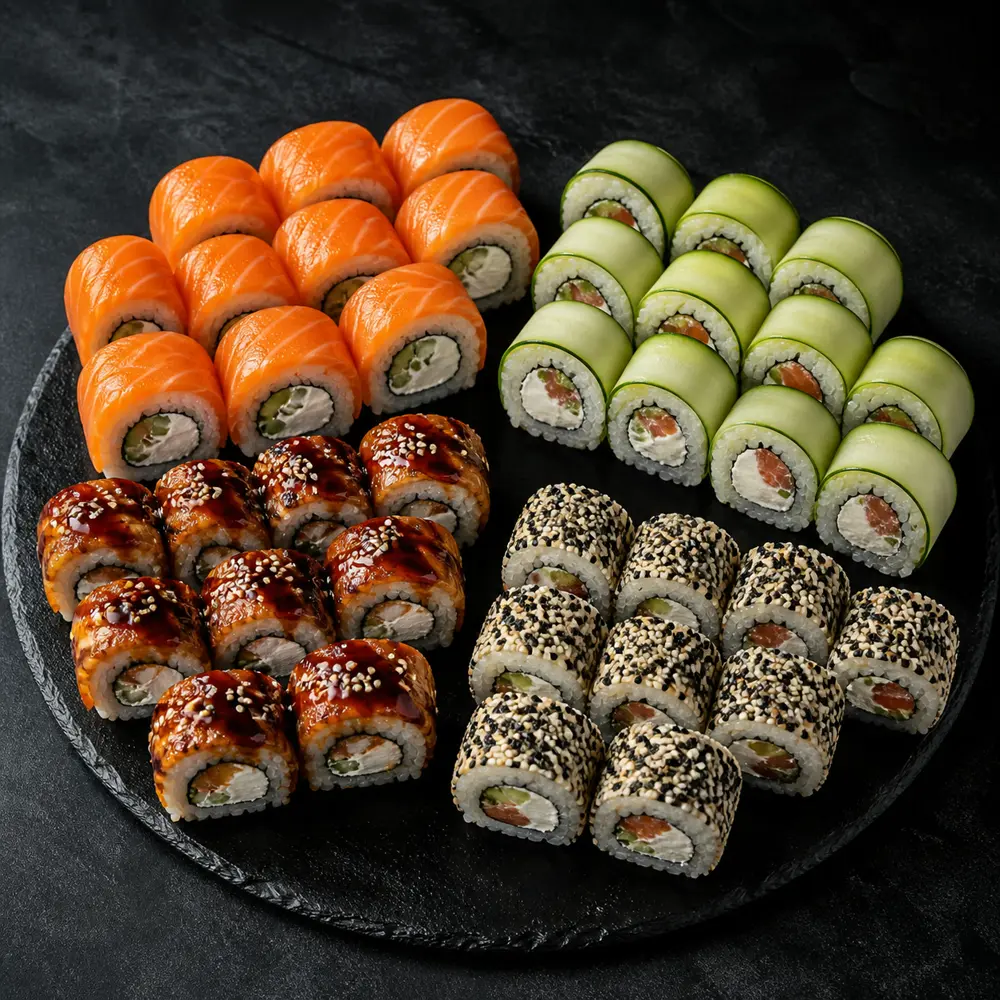
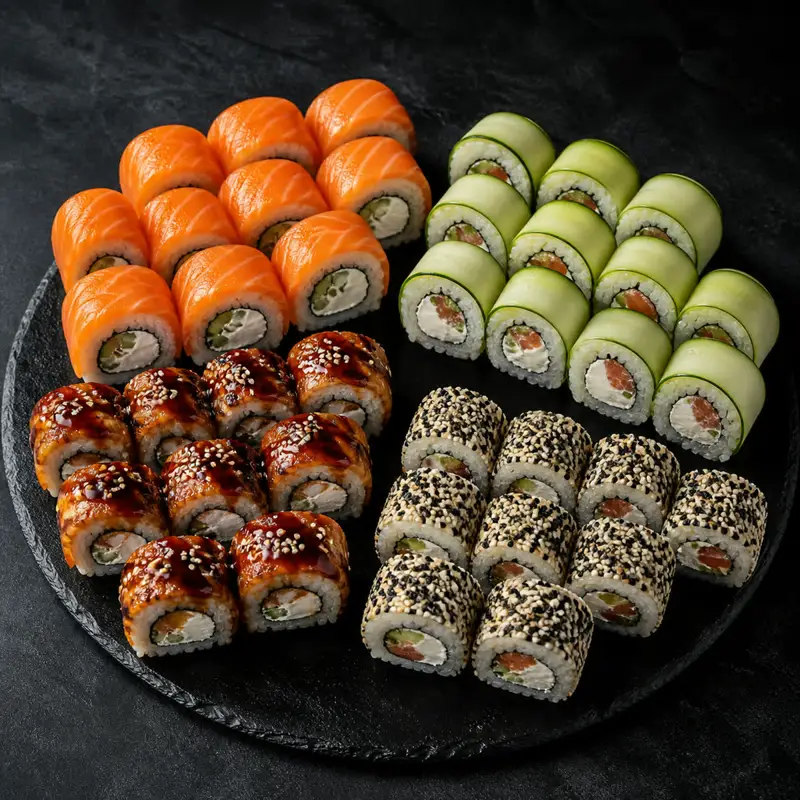
SEO: останній заголовок перед H1 (h3 «Склад» у попапі) → p; hero philadelphia < 100 КБ

diff --git a/menu.html b/menu.html
@@ -1968,7 +1968,7 @@
         <p id="productPopupTitle"></p>
       </div>
       <p class="product-popup__desc" id="productPopupDesc"></p>
-      <h3 class="product-popup__tags-label">Склад</h3>
+      <p class="product-popup__tags-label">Склад</p>
       <div class="product-popup__tags" id="productPopupTags"></div>
       <div class="product-popup__nutrition" id="productPopupNutrition"></div>
       <p class="product-popup__note" id="productPopupNote"></p>

diff --git a/404.html b/404.html
@@ -357,7 +357,7 @@
         <p id="productPopupTitle"></p>
       </div>
       <p class="product-popup__desc" id="productPopupDesc"></p>
-      <h3 class="product-popup__tags-label">Склад</h3>
+      <p class="product-popup__tags-label">Склад</p>
       <div class="product-popup__tags" id="productPopupTags"></div>
       <div class="product-popup__nutrition" id="productPopupNutrition"></div>
       <p class="product-popup__note" id="productPopupNote"></p>

diff --git a/about.html b/about.html
@@ -376,7 +376,7 @@
         <p id="productPopupTitle"></p>
       </div>
       <p class="product-popup__desc" id="productPopupDesc"></p>
-      <h3 class="product-popup__tags-label">Склад</h3>
+      <p class="product-popup__tags-label">Склад</p>
       <div class="product-popup__tags" id="productPopupTags"></div>
       <div class="product-popup__nutrition" id="productPopupNutrition"></div>
       <p class="product-popup__note" id="productPopupNote"></p>

diff --git a/account.html b/account.html
@@ -375,7 +375,7 @@
         <p id="productPopupTitle"></p>
       </div>
       <p class="product-popup__desc" id="productPopupDesc"></p>
-      <h3 class="product-popup__tags-label">Склад</h3>
+      <p class="product-popup__tags-label">Склад</p>
       <div class="product-popup__tags" id="productPopupTags"></div>
       <div class="product-popup__nutrition" id="productPopupNutrition"></div>
       <p class="product-popup__note" id="productPopupNote"></p>

diff --git a/article.html b/article.html
@@ -405,7 +405,7 @@
         <p id="productPopupTitle"></p>
       </div>
       <p class="product-popup__desc" id="productPopupDesc"></p>
-      <h3 class="product-popup__tags-label">Склад</h3>
+      <p class="product-popup__tags-label">Склад</p>
       <div class="product-popup__tags" id="productPopupTags"></div>
       <div class="product-popup__nutrition" id="productPopupNutrition"></div>
       <p class="product-popup__note" id="productPopupNote"></p>

diff --git a/blog.html b/blog.html
@@ -375,7 +375,7 @@
         <p id="productPopupTitle"></p>
       </div>
       <p class="product-popup__desc" id="productPopupDesc"></p>
-      <h3 class="product-popup__tags-label">Склад</h3>
+      <p class="product-popup__tags-label">Склад</p>
       <div class="product-popup__tags" id="productPopupTags"></div>
       <div class="product-popup__nutrition" id="productPopupNutrition"></div>
       <p class="product-popup__note" id="productPopupNote"></p>

diff --git a/careers.html b/careers.html
@@ -414,7 +414,7 @@
         <p id="productPopupTitle"></p>
       </div>
       <p class="product-popup__desc" id="productPopupDesc"></p>
-      <h3 class="product-popup__tags-label">Склад</h3>
+      <p class="product-popup__tags-label">Склад</p>
       <div class="product-popup__tags" id="productPopupTags"></div>
       <div class="product-popup__nutrition" id="productPopupNutrition"></div>
       <p class="product-popup__note" id="productPopupNote"></p>

diff --git a/checkout.html b/checkout.html
@@ -358,7 +358,7 @@
         <p id="productPopupTitle"></p>
       </div>
       <p class="product-popup__desc" id="productPopupDesc"></p>
-      <h3 class="product-popup__tags-label">Склад</h3>
+      <p class="product-popup__tags-label">Склад</p>
       <div class="product-popup__tags" id="productPopupTags"></div>
       <div class="product-popup__nutrition" id="productPopupNutrition"></div>
       <p class="product-popup__note" id="productPopupNote"></p>

diff --git a/contacts.html b/contacts.html
@@ -412,7 +412,7 @@
         <p id="productPopupTitle"></p>
       </div>
       <p class="product-popup__desc" id="productPopupDesc"></p>
-      <h3 class="product-popup__tags-label">Склад</h3>
+      <p class="product-popup__tags-label">Склад</p>
       <div class="product-popup__tags" id="productPopupTags"></div>
       <div class="product-popup__nutrition" id="productPopupNutrition"></div>
       <p class="product-popup__note" id="productPopupNote"></p>

diff --git a/delivery.html b/delivery.html
@@ -447,7 +447,7 @@
         <p id="productPopupTitle"></p>
       </div>
       <p class="product-popup__desc" id="productPopupDesc"></p>
-      <h3 class="product-popup__tags-label">Склад</h3>
+      <p class="product-popup__tags-label">Склад</p>
       <div class="product-popup__tags" id="productPopupTags"></div>
       <div class="product-popup__nutrition" id="productPopupNutrition"></div>
       <p class="product-popup__note" id="productPopupNote"></p>

diff --git a/deserty.html b/deserty.html
@@ -507,7 +507,7 @@
         <p id="productPopupTitle"></p>
       </div>
       <p class="product-popup__desc" id="productPopupDesc"></p>
-      <h3 class="product-popup__tags-label">Склад</h3>
+      <p class="product-popup__tags-label">Склад</p>
       <div class="product-popup__tags" id="productPopupTags"></div>
       <div class="product-popup__nutrition" id="productPopupNutrition"></div>
       <p class="product-popup__note" id="productPopupNote"></p>

diff --git a/index.html b/index.html
@@ -605,7 +605,7 @@
         <p id="productPopupTitle"></p>
       </div>
       <p class="product-popup__desc" id="productPopupDesc"></p>
-      <h3 class="product-popup__tags-label">Склад</h3>
+      <p class="product-popup__tags-label">Склад</p>
       <div class="product-popup__tags" id="productPopupTags"></div>
       <div class="product-popup__nutrition" id="productPopupNutrition"></div>
       <p class="product-popup__note" id="productPopupNote"></p>
